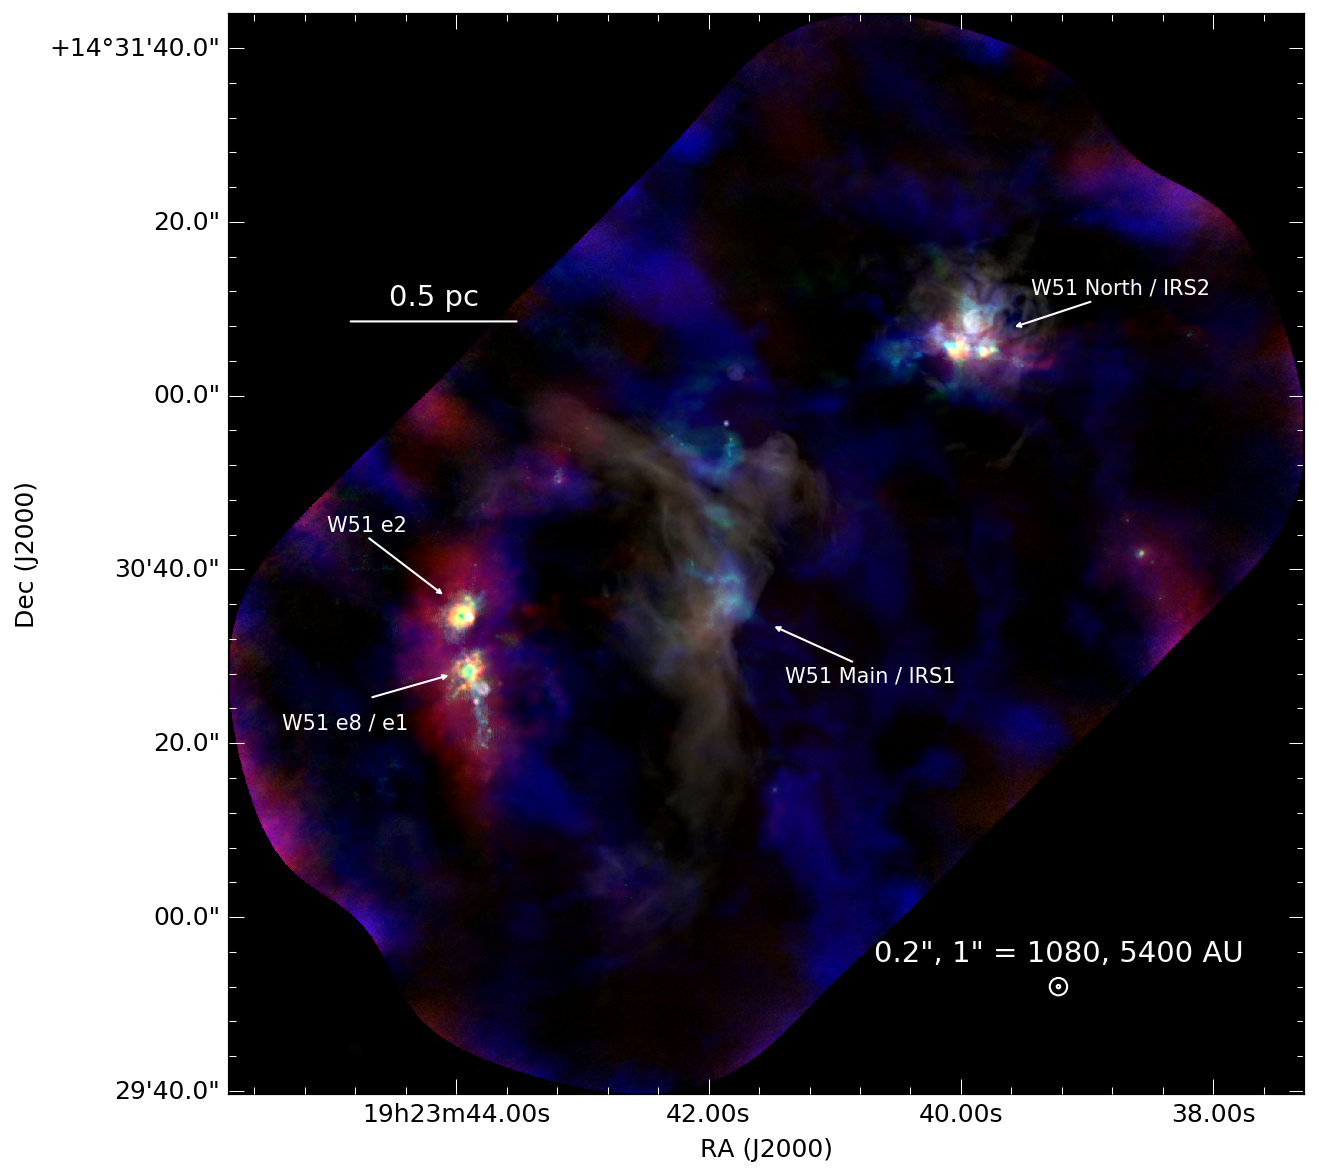
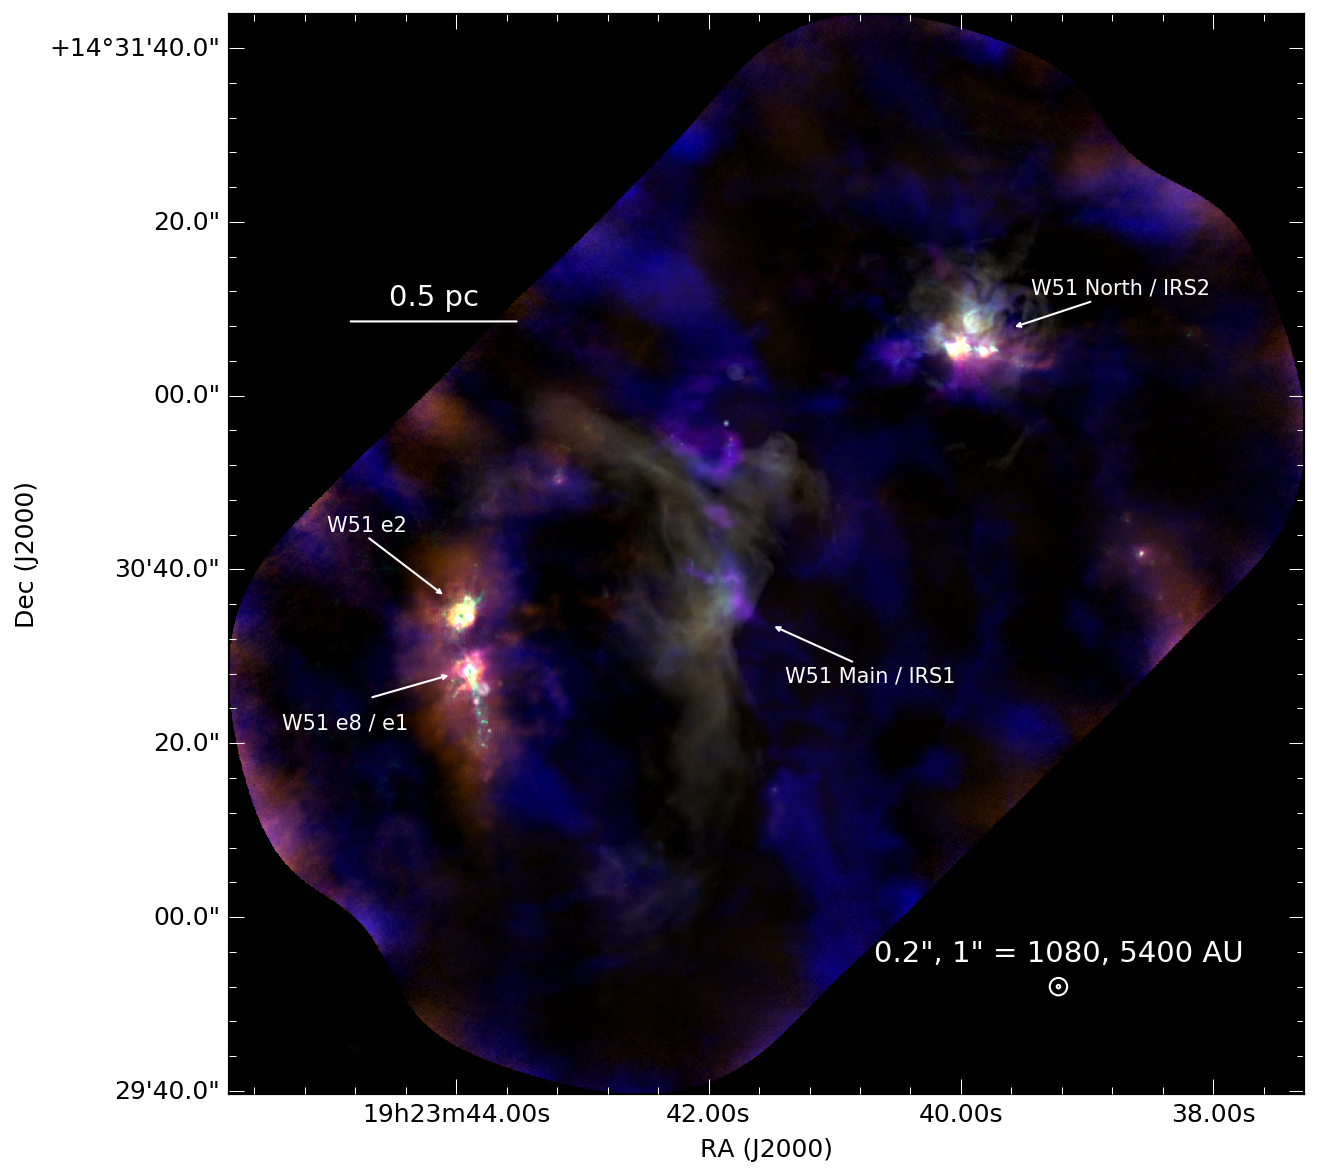
figure color updates

diff --git a/cores_and_outflows/cores_and_outflows.tex b/cores_and_outflows/cores_and_outflows.tex
@@ -146,10 +146,11 @@ high-mass stars.
 discussed in this paper are labeled.  W51 e8 is a mm dust source, while W51 e1
 is the neighboring \hii region.  Similarly, W51 IRS2 is the \hii region, and
 W51 North is the brightest mm source in that area.  The colors are a composite
-of millimeter emission lines: CO in blue, \methanol in red, and HC$_3$N in
-green.  The white hazy emission shows VLA Ku-band free-free continuum emission
+of millimeter emission lines: CO in blue, \methanol in orange, and HC$_3$N in
+purple.  The 1.3mm continuum is shown in green.  The white hazy emission
+shows VLA Ku-band free-free continuum emission
 \citep{Ginsburg2016b}.}
-{fig:overview}{1}{10cm}
+{fig:overview}{1}{18cm}
 
 
 \todo{The major sectioning/subsectioning breakdown is awkward.} We present an
